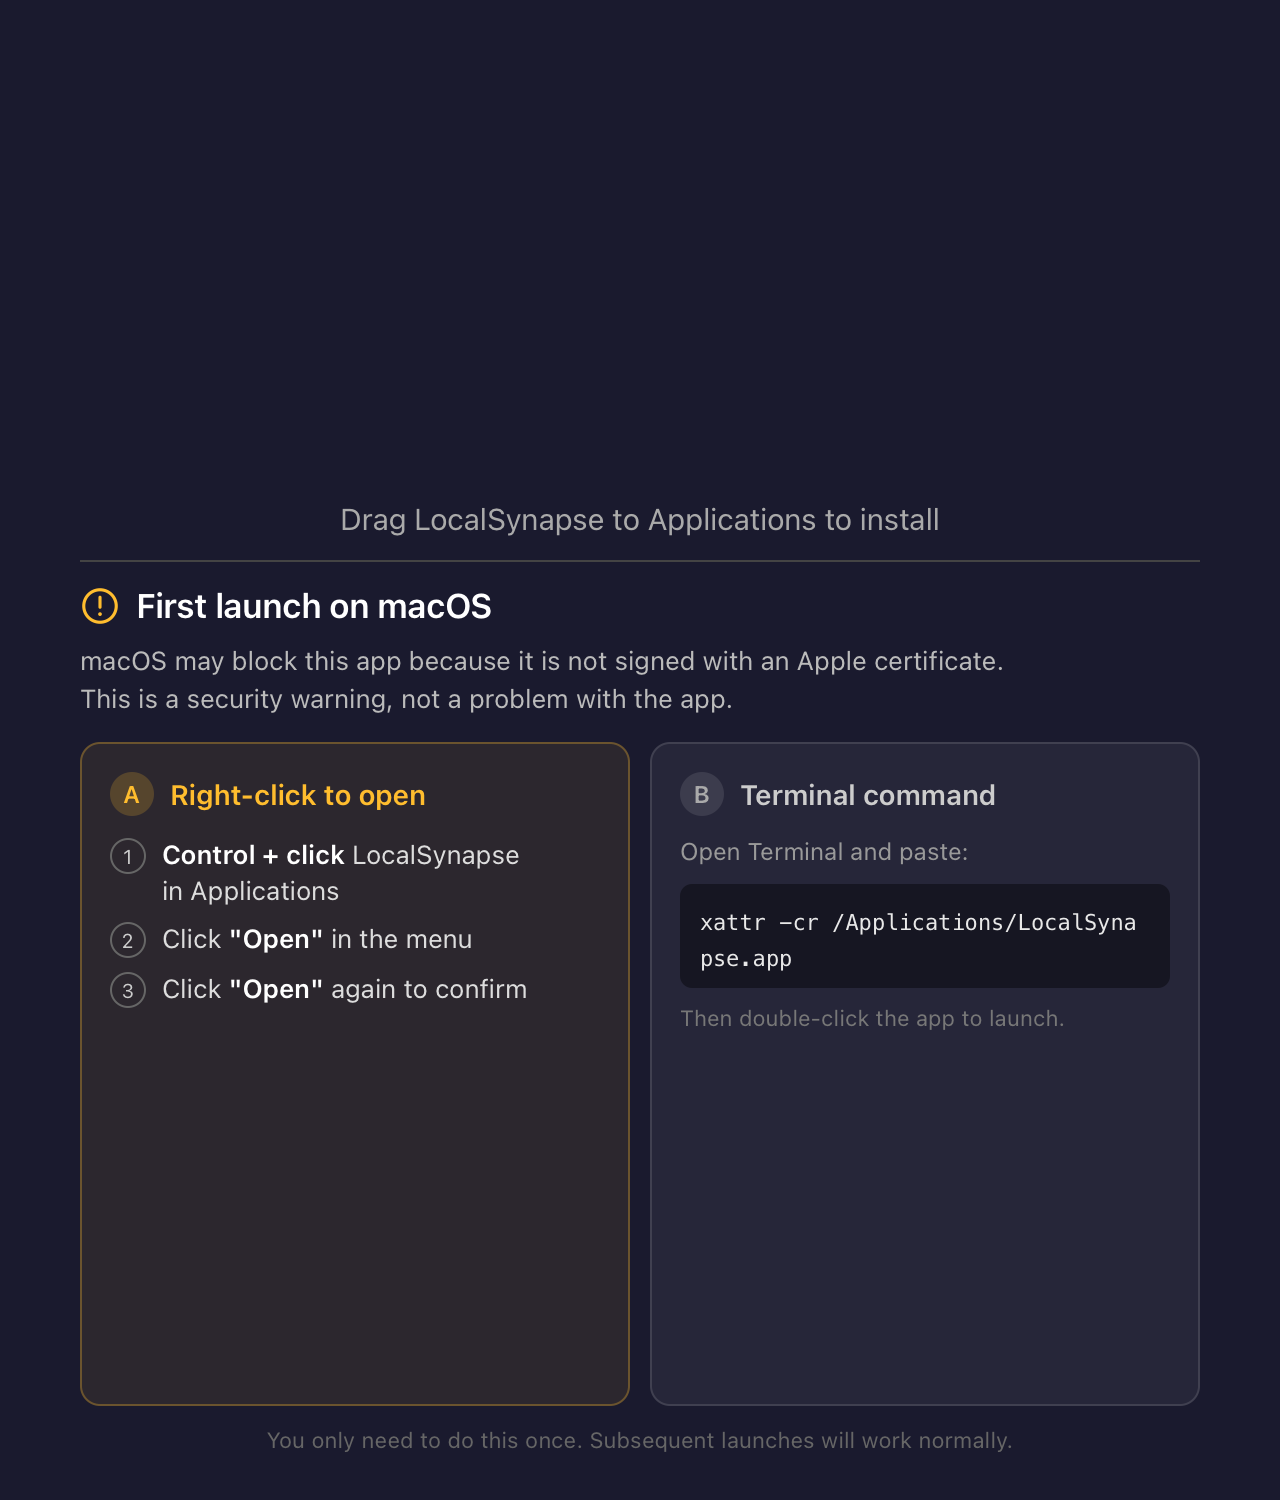
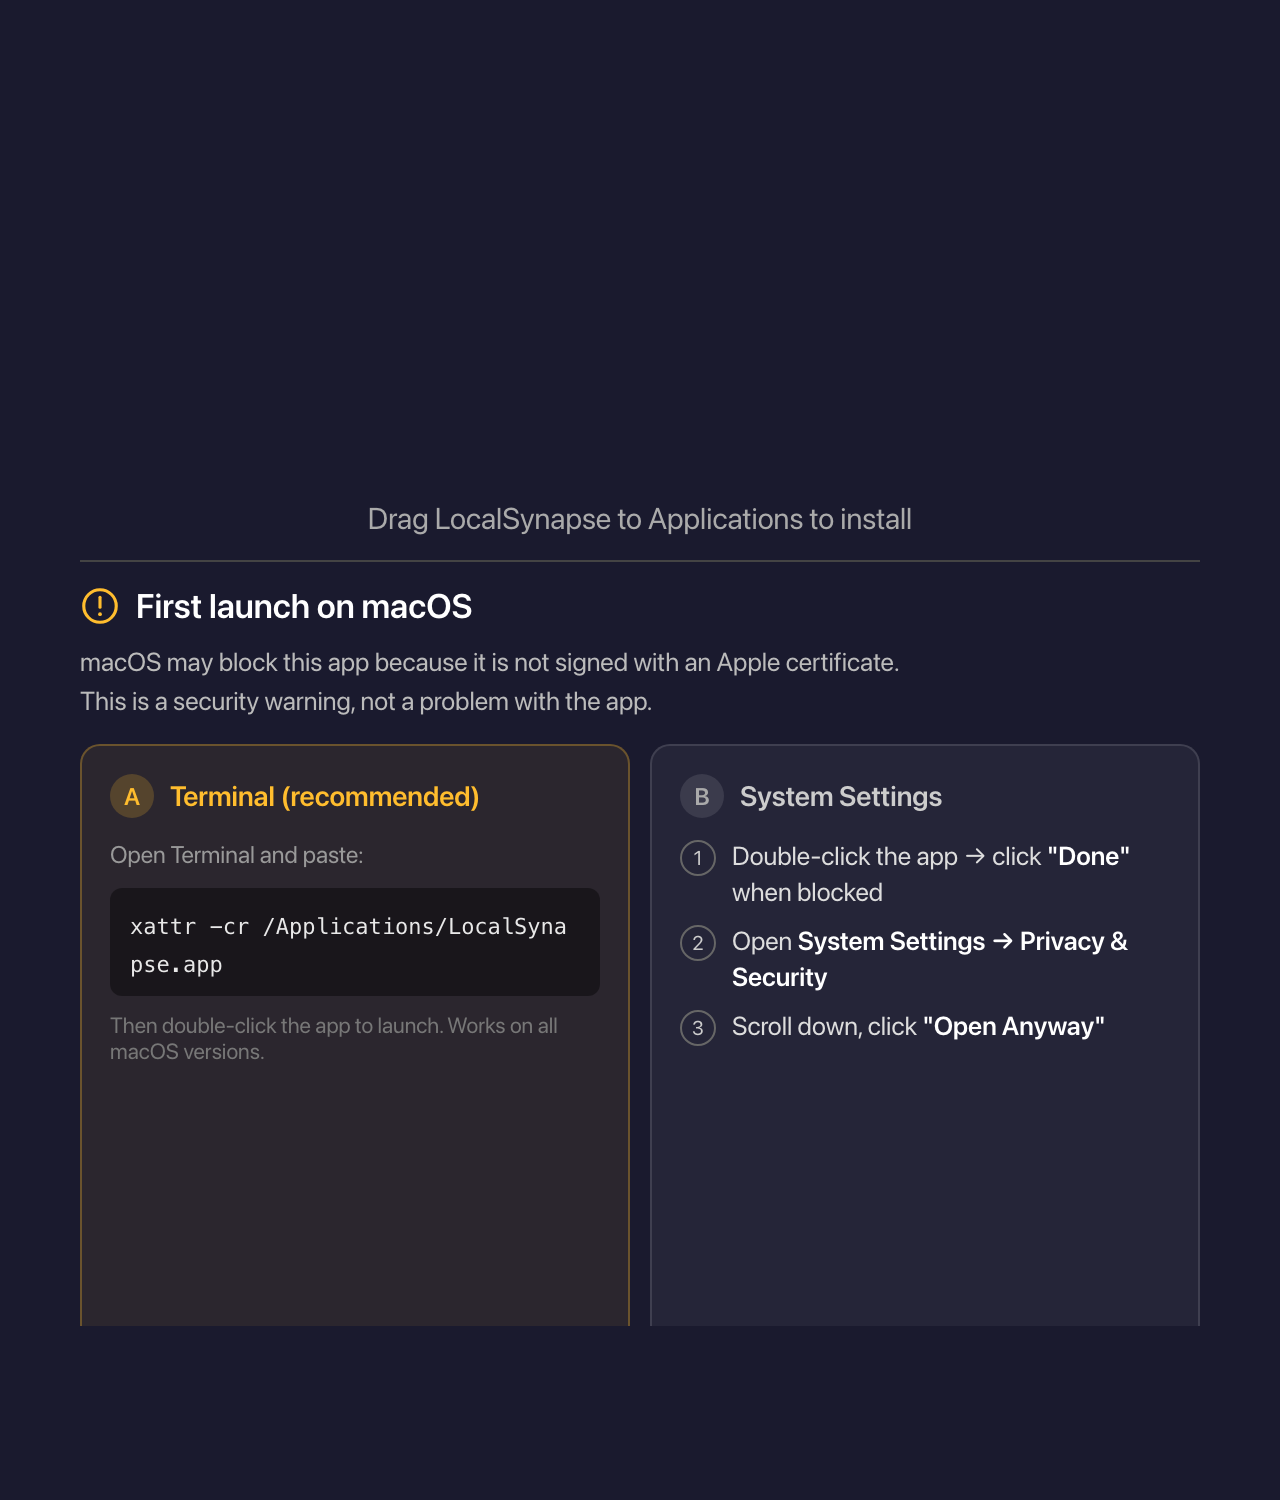
fix(dmg): Sequoia-compatible First Launch guide + v2.5.1
macOS 15 Sequoia removed the "Control-click → Open → Open" Gatekeeper
bypass that worked on macOS 14 Sonoma and earlier. When users on
Sequoia try to launch an unsigned app, the warning dialog now only
shows "Done" and "Move to Trash" — no "Open" button at all. The DMG's
First Launch panel was telling them to use a method that no longer
exists, leaving them stuck after install.

Reproduced on Ryan's dev machine (macOS 15.x / Darwin 24.4.0) with
the v2.5.0 DMG: double-click → blocked dialog with no Open button.
Terminal `xattr -cr` still works. System Settings "Open Anyway" also
still works.

DMG background HTML + PNG regenerated:

- Card A (was "Right-click to open"): now "Terminal (recommended)"
  showing `xattr -cr /Applications/LocalSynapse.app`. This used to
  be Card B and was documented as a fallback; promoted to primary
  because it works on every macOS version including Sequoia and is
  the most reliable path.

- Card B (was "Terminal command"): now "System Settings" with the
  3-step Privacy & Security → Open Anyway flow. This is the
  Apple-blessed path on Sequoia, but the user has to attempt the
  launch first for the block notice to appear in Settings, which is
  why it's secondary to the Terminal approach.

- Footer: added explicit note "macOS 15 Sequoia removed the older
  Control+click bypass" so future users understand why the old
  instructions disappeared.

README.txt inside the DMG received the same rewrite with an
[…]

diff --git a/assets/dmg/dmg-background.html b/assets/dmg/dmg-background.html
@@ -196,36 +196,36 @@ body {
       <div class="card-a">
         <div class="card-header">
           <div class="badge badge-a">A</div>
-          <span class="card-title-a">Right-click to open</span>
-        </div>
-        <div class="step">
-          <div class="step-num">1</div>
-          <p class="step-text"><strong>Control + click</strong> LocalSynapse<br>in Applications</p>
-        </div>
-        <div class="step">
-          <div class="step-num">2</div>
-          <p class="step-text">Click <strong>"Open"</strong> in the menu</p>
-        </div>
-        <div class="step">
-          <div class="step-num">3</div>
-          <p class="step-text">Click <strong>"Open"</strong> again to confirm</p>
-        </div>
-      </div>
-
-      <div class="card-b">
-        <div class="card-header">
-          <div class="badge badge-b">B</div>
-          <span class="card-title-b">Terminal command</span>
+          <span class="card-title-a">Terminal (recommended)</span>
         </div>
         <p class="card-desc">Open Terminal and paste:</p>
         <div class="code-block">
           <code>xattr -cr /Applications/LocalSynapse.app</code>
         </div>
-        <p class="card-hint">Then double-click the app to launch.</p>
+        <p class="card-hint">Then double-click the app to launch. Works on all macOS versions.</p>
+      </div>
+
+      <div class="card-b">
+        <div class="card-header">
+          <div class="badge badge-b">B</div>
+          <span class="card-title-b">System Settings</span>
+        </div>
+        <div class="step">
+          <div class="step-num">1</div>
+          <p class="step-text">Double-click the app &rarr; click <strong>"Done"</strong> when blocked</p>
+        </div>
+        <div class="step">
+          <div class="step-num">2</div>
+          <p class="step-text">Open <strong>System Settings &rarr; Privacy &amp; Security</strong></p>
+        </div>
+        <div class="step">
+          <div class="step-num">3</div>
+          <p class="step-text">Scroll down, click <strong>"Open Anyway"</strong></p>
+        </div>
       </div>
     </div>
 
-    <p class="footer">You only need to do this once. Subsequent launches will work normally.</p>
+    <p class="footer">You only need to do this once. macOS 15 Sequoia removed the older Control+click bypass.</p>
   </div>
 
 </div>
